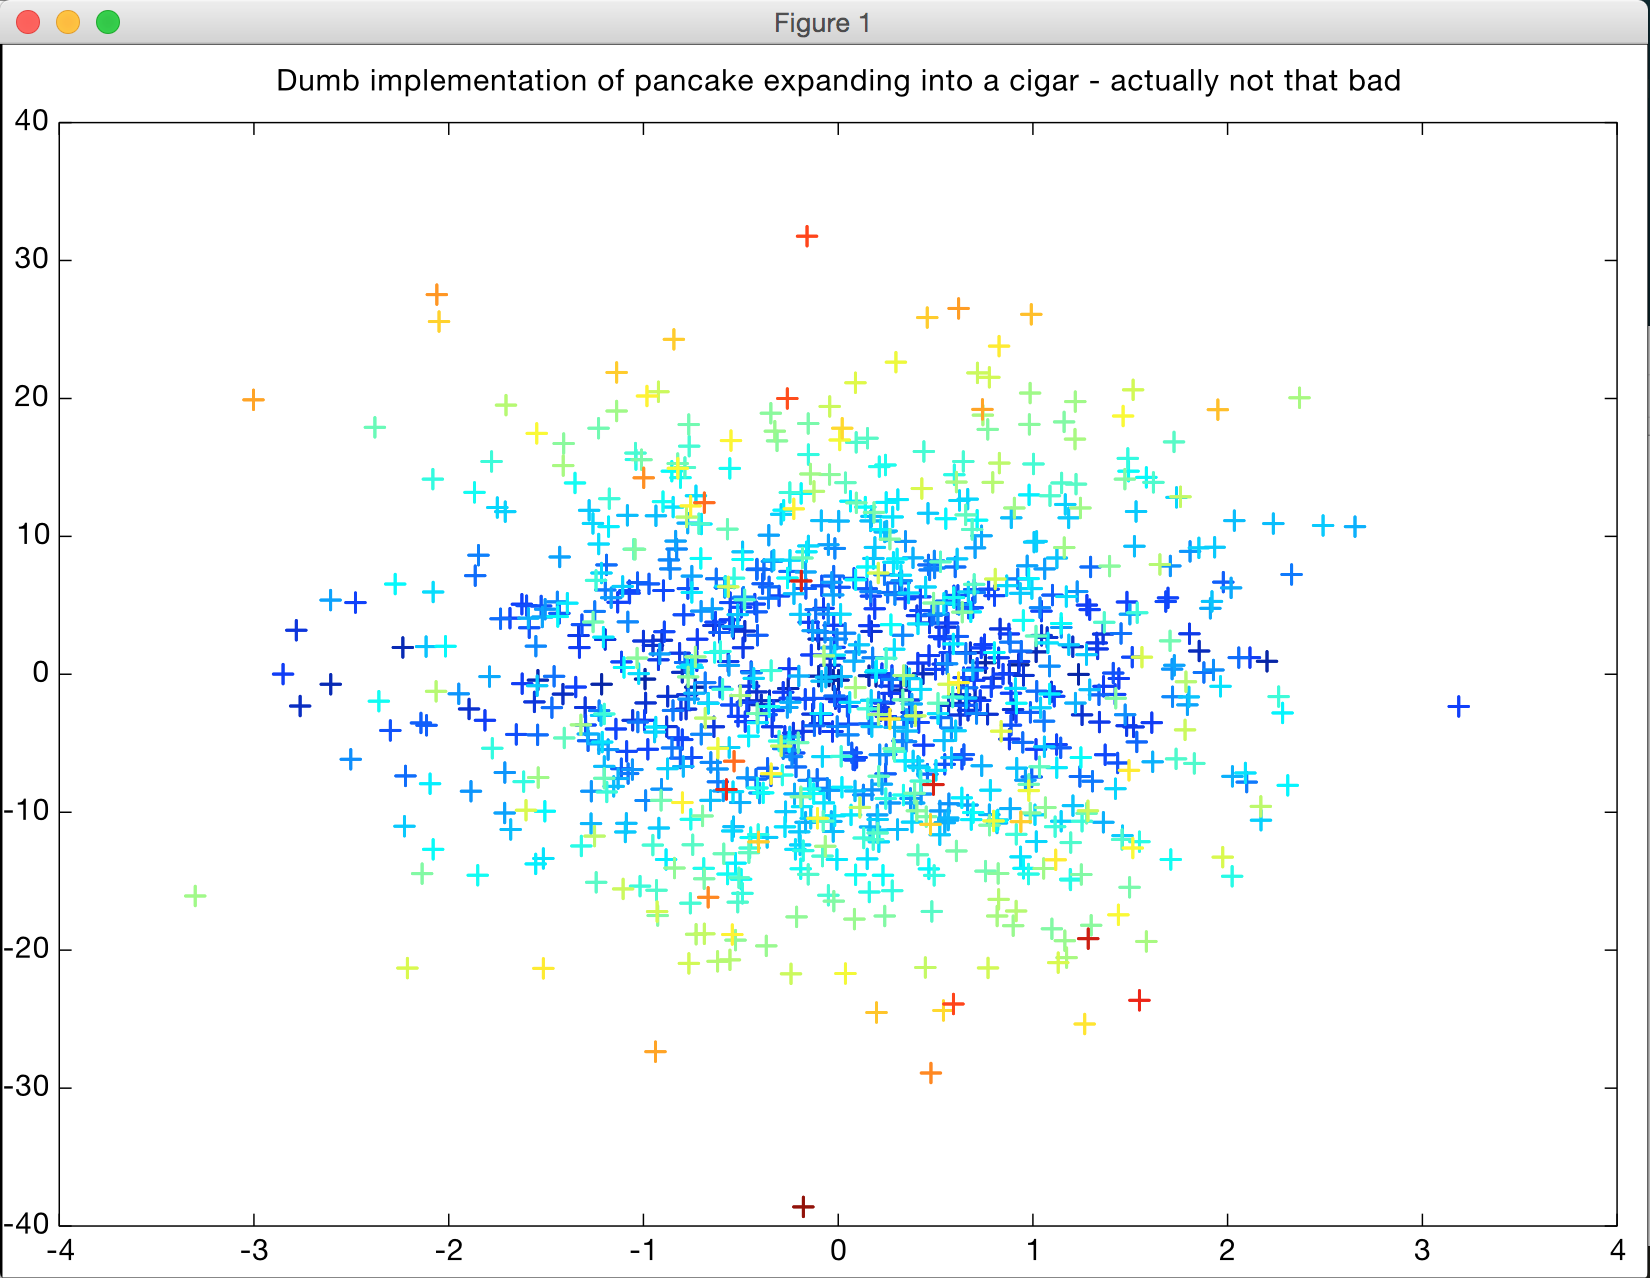
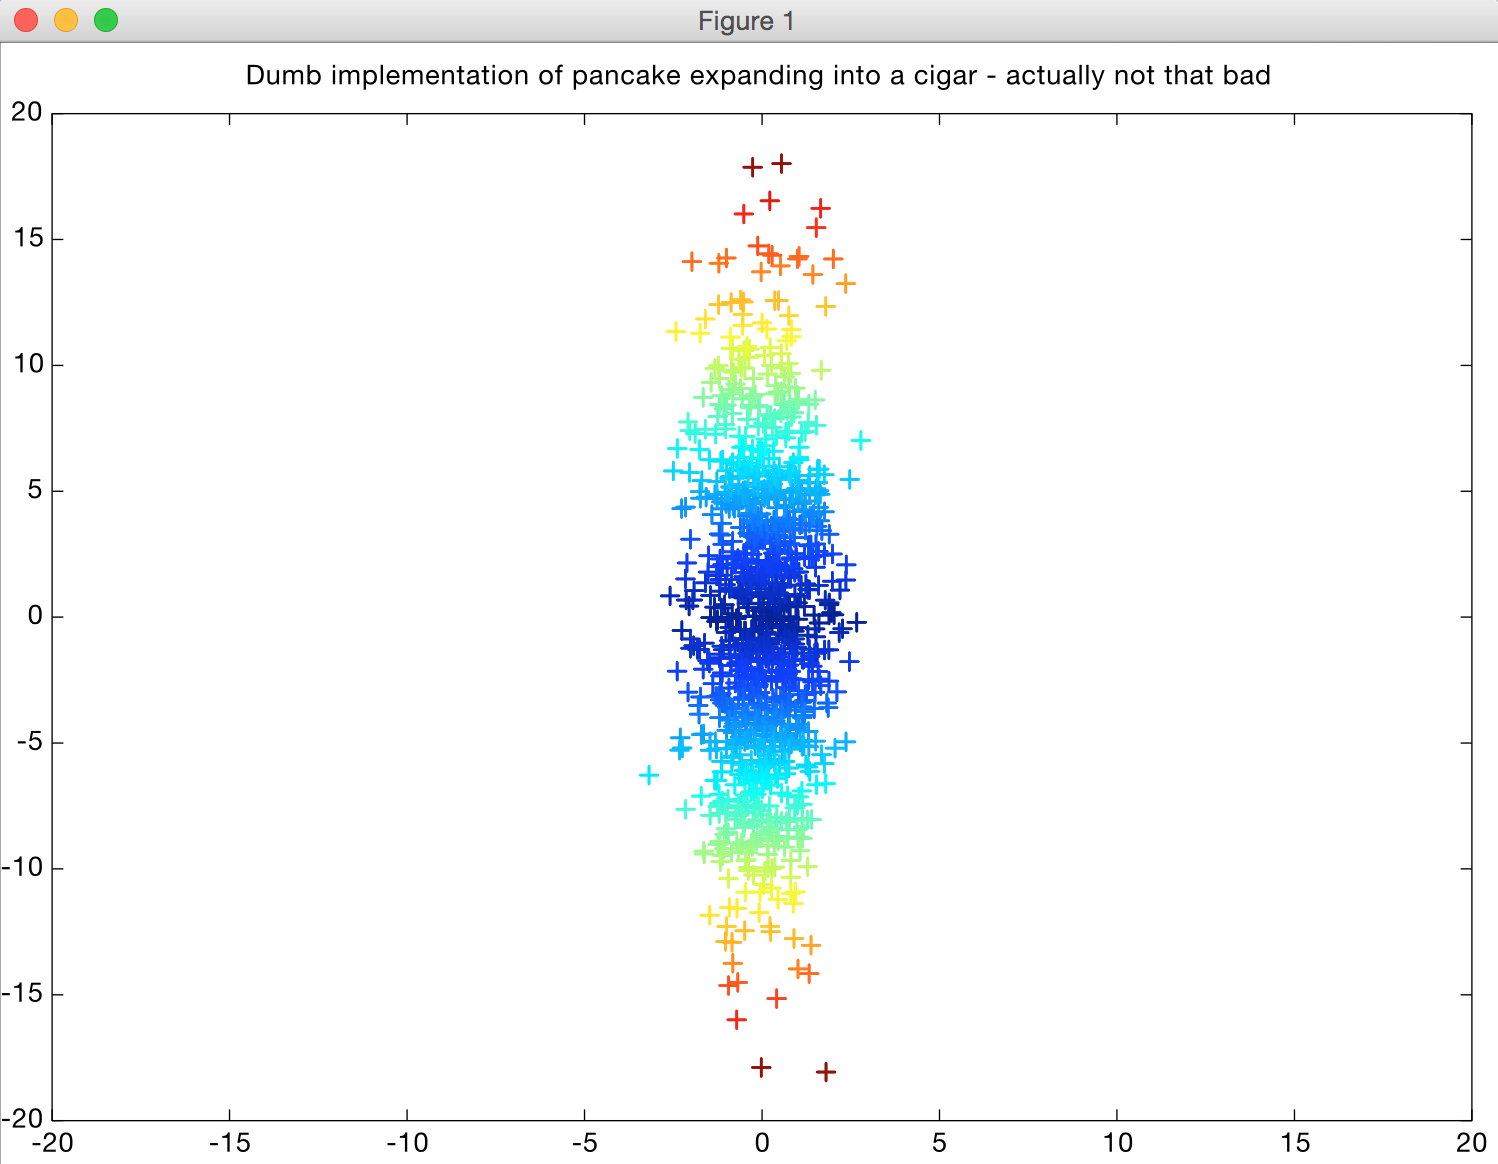
much better model

diff --git a/dumbFirstImplementation.m b/dumbFirstImplementation.m
@@ -13,24 +13,44 @@
 %% Initialization
 clear ; close all; clc
 
+MAX_TIME = 3;
+TIME_INCREMENT = 1;
+SLOW_DOWN_FACTOR = 0.0001;
+
+PAUSE_TIME = 1;
+
+AXIS_SCALE = [-20 20 -20 20];
+
 % give each a random position on the line
 p_x = randn(1000, 1);
 p_y = zeros(1000, 1);
 
-% plot em in a scatter graph
-%scatter(p_x, p_y, [], sqrt(p_x.^2 + p_x.^2))
+% get 100 random velocities in the x dirn, but slow them down
+u_x = SLOW_DOWN_FACTOR * randn(1000,1);
 
-% get 100 random x's
-u_x = randn(1000,1);
-
-% get 100 random y's
+% get 100 random velocities in the y dirn
 u_y = randn(1000,1);
 
-% I don't care about acceleration
-t = 10;
-slow_down_factor = 0.0001;
+c = sqrt(u_x.^2 + u_y.^2);
 
-p_x = slow_down_factor * u_x * t + p_x;
-p_y = u_y * t + p_y;
-scatter(p_x, p_y, 20, sqrt(u_x.^2 + u_y.^2), 'filled')
-title ('Dumb implementation of pancake expanding into a cigar - actually not that bad');
+for t = 0 : TIME_INCREMENT*MAX_TIME;
+	% I don't care about acceleration
+	p_x = u_x * TIME_INCREMENT + p_x;
+	p_y = u_y * t * TIME_INCREMENT + p_y;
+
+	scatter(p_x, p_y, 20, c, 'filled')
+	axis (AXIS_SCALE);
+	time = t*TIME_INCREMENT
+	title ('Dumb implementation of pancake expanding into a cigar - actually not that bad ');
+	pause (PAUSE_TIME);
+	hold on;
+
+	if t = TIME_INCREMENT*MAX_TIME;
+		hold off
+		else
+	elif
+		clf;
+	end
+end
+
+hold off;
